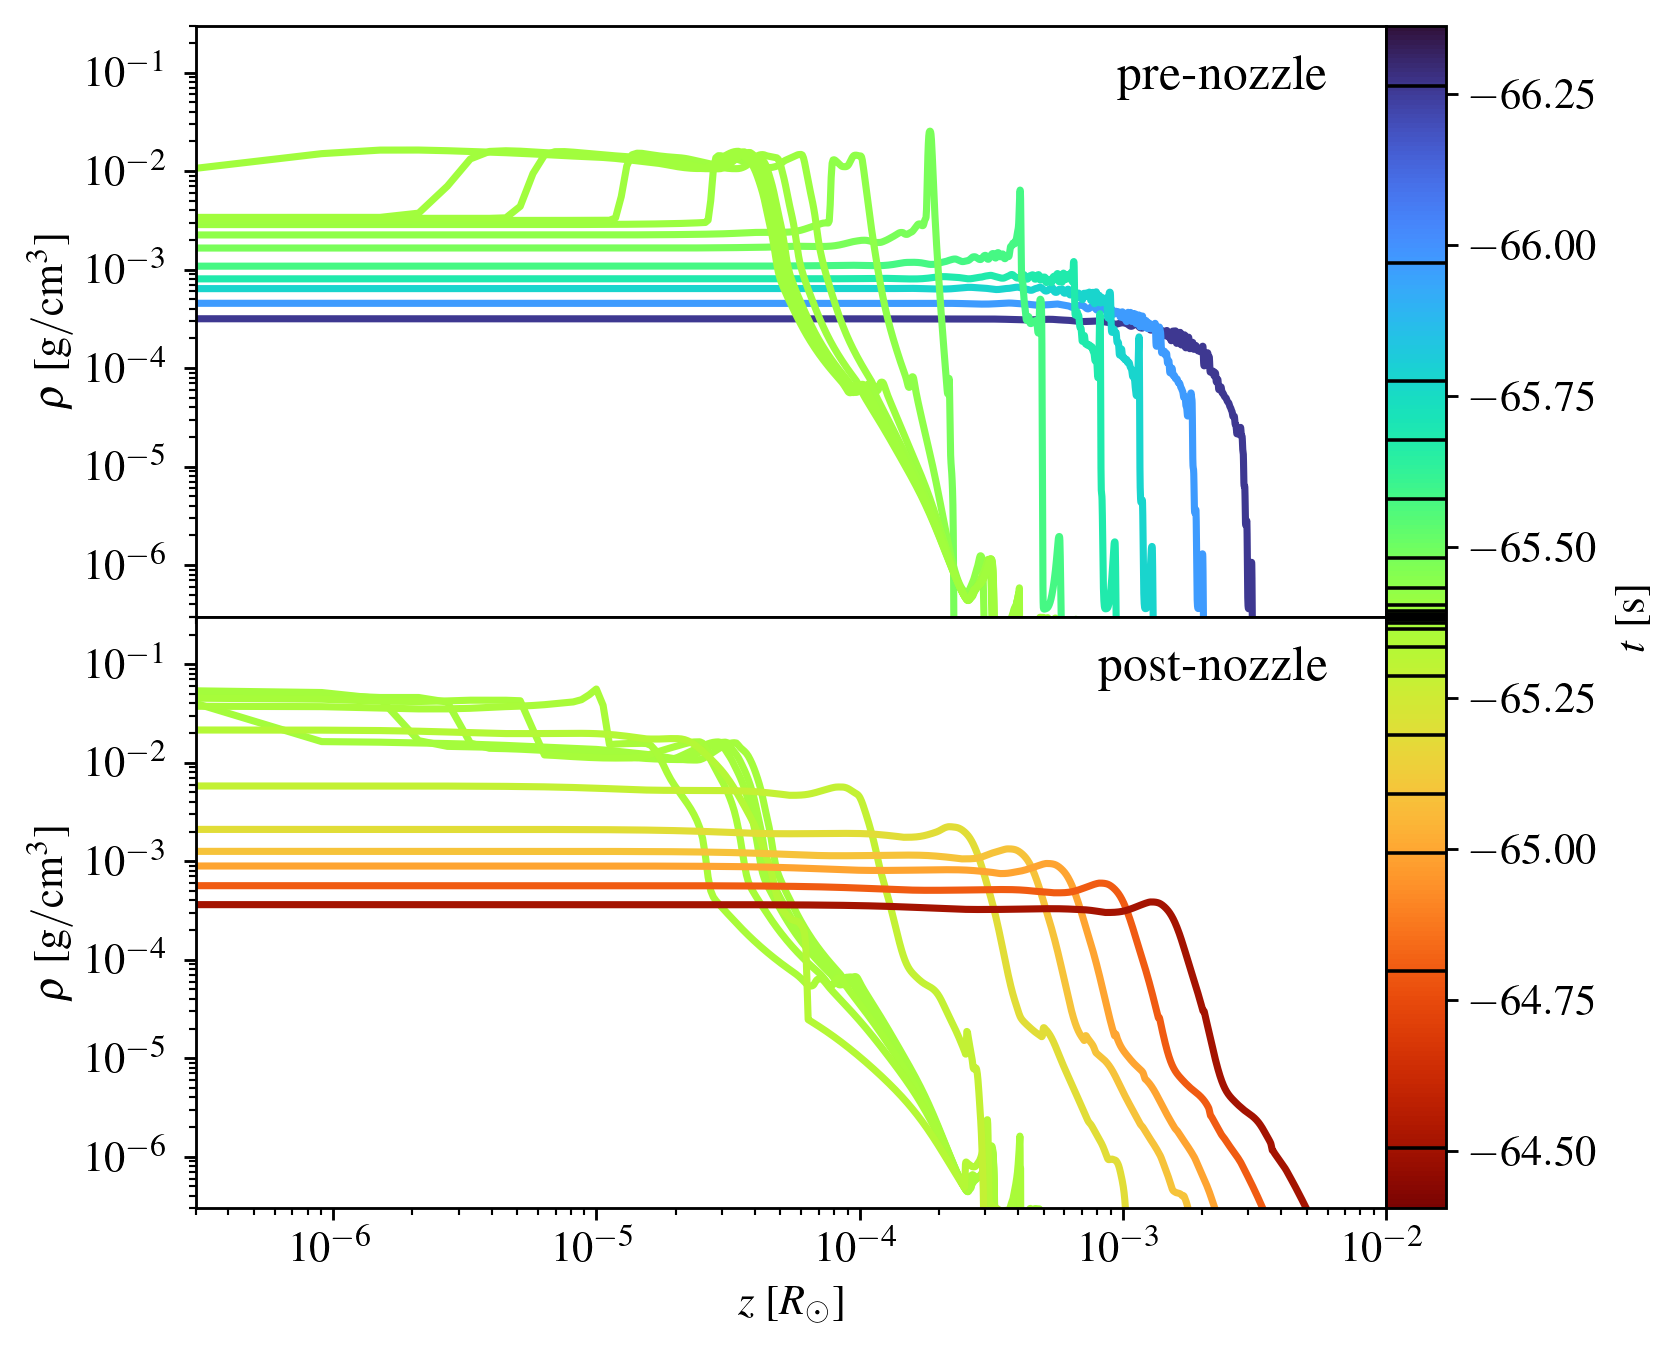
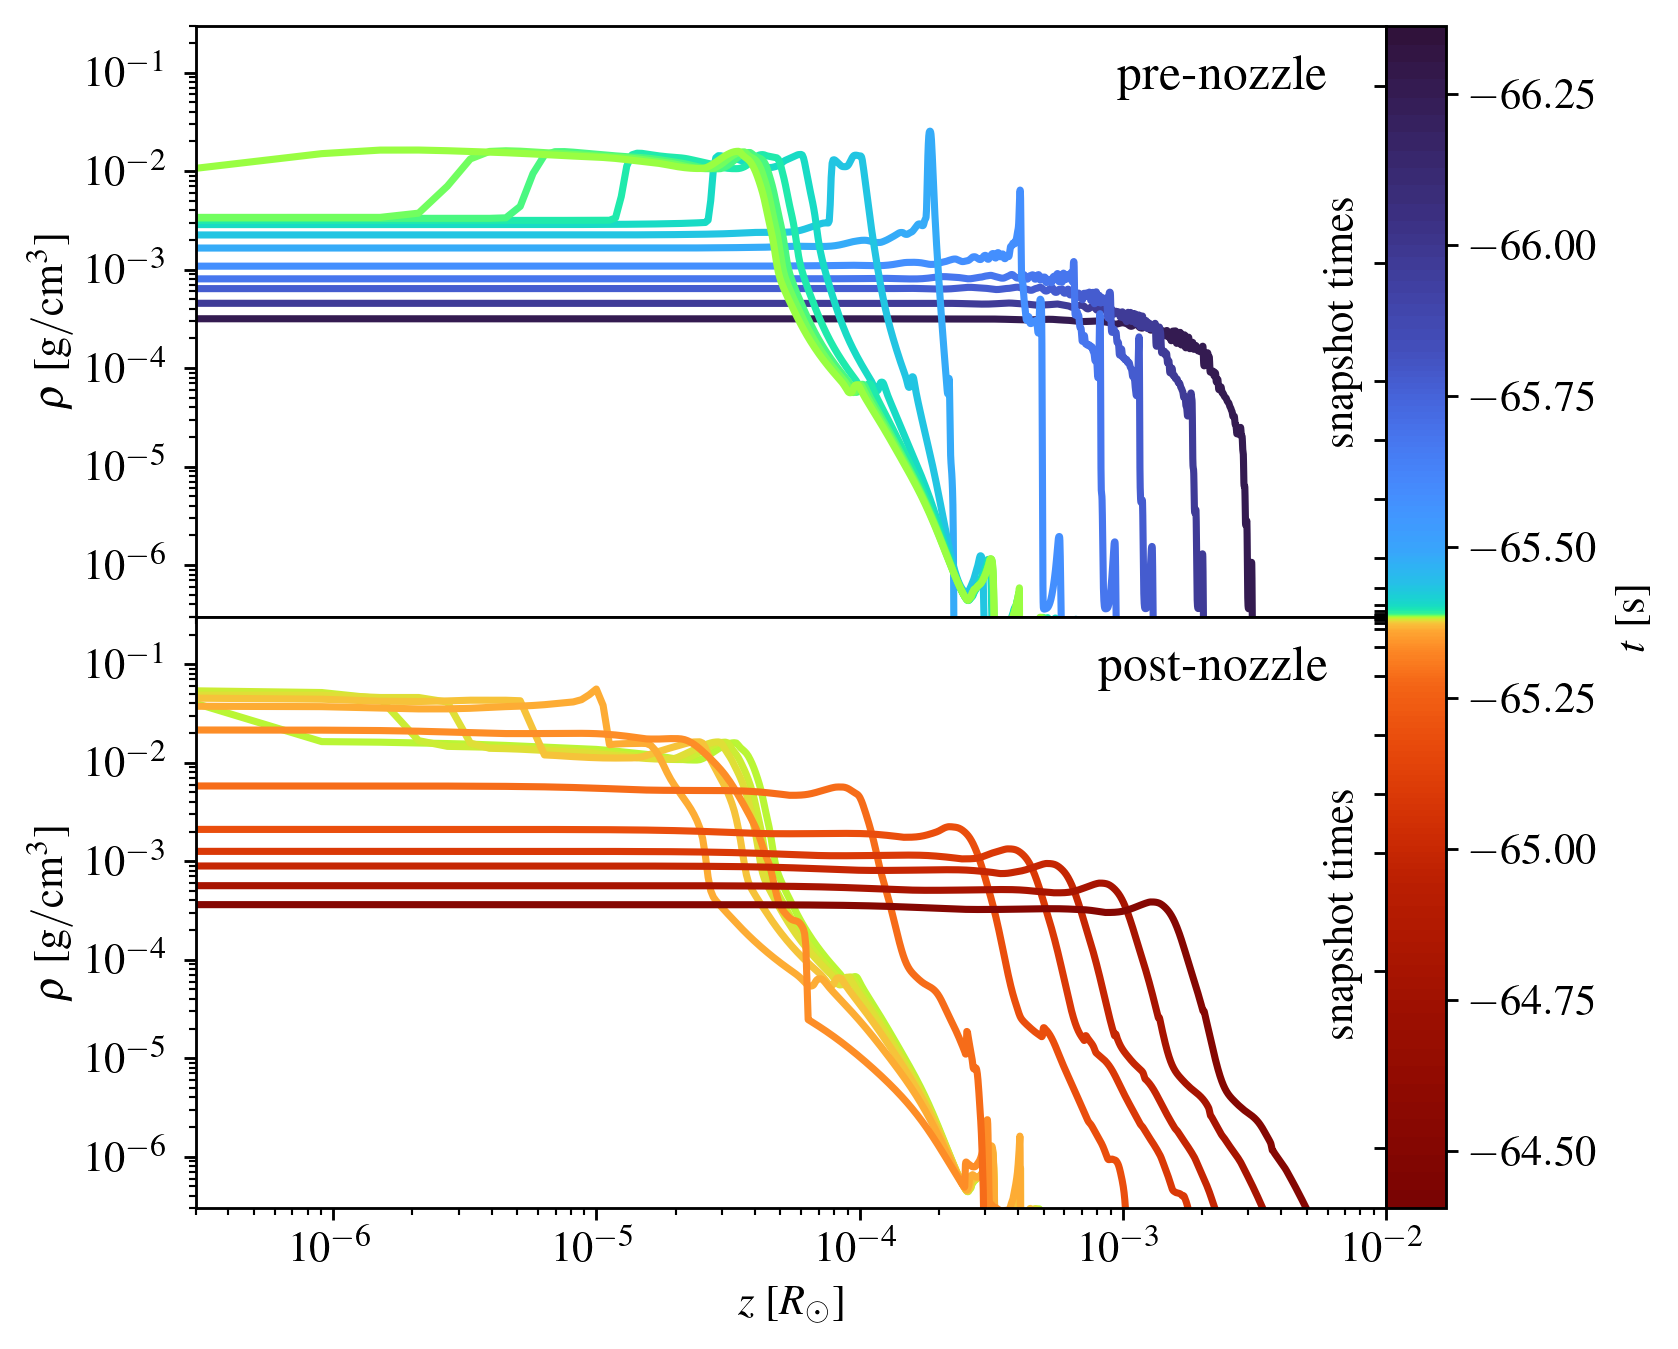
updated fig

Changed region(s): [[0.093, 0.4981, 0.7747, 0.9029], [0.093, 0.0934, 0.7747, 0.467], [0.7747, 0.0311, 0.8677, 0.8718]]

diff --git a/build/publications/Andalman+2026a/index.html b/build/publications/Andalman+2026a/index.html
@@ -48,12 +48,12 @@
     The resulting flare is powered by the circularization and accretion of bound stellar debris, which returns to the BH on eccentric orbits as a thin debris stream. 
     The returning fluid elements follow inclined orbits that converge near pericenter, resulting in extreme vertical compression to scales 1e-4 Rsol and the formation of a nozzle shock. 
     Dissipation at the nozzle shock may affect circularization by altering the properties of the debris stream, but its role is the subject of ongoing debate. 
-    We develop an idealized model for the debris stream evolution combining 3D smooth particle hydrodynamics simulations, the semi-analytic affine model, and 1D finite-volume hydrodynamic simulations, which unambiguously resolve the nozzle shock. 
-    Because our model is computationally inexpensive, we can analyze the debris stream evolution for a wide range of conditions using a realistic equation of state. 
-    Near peak fallback, Hydrogen recombination and molecular Hydrogen formation broaden the stream by a factor ~5, enhancing dissipation at the nozzle.
+    We develop an idealized model for the debris stream evolution combining 3D smooth particle hydrodynamics simulations, the semi-analytic affine model, and 1D finite-volume hydrodynamic simulations. 
+    Because our model is computationally cheap, we can unambiguously resolve the nozzle shock, use a realistic equation of state, and follow the debris stream evolution at many different times. 
+    Near peak fallback, Hydrogen recombination and molecular Hydrogen formation broaden the stream by a factor ~5, enhancing dissipation at the nozzle. 
     However, the dissipation is still insufficient to directly circularize the debris by in-plane pressure gradients. 
     Instead, the thicker stream substantially increases the likelihood that the stream self-intersects on the second orbit, despite relativistic nodal precession. 
-    The stream properties at self-intersection are sensitive to dissipation at the nozzle and the timing of focal points where the ballistic trajectories of the debris converge.
+    The stream properties at self-intersection are sensitive to dissipation at the nozzle and the timing of focal points where the ballistic trajectories of the debris converge. 
     Our results clarify the nozzle shock&#39;s role in circularization in TDEs, providing a foundation for more realistic circularization and emission models.
     </p>
   
@@ -92,9 +92,9 @@
     The density as a function of vertical height in the debris stream, from our 1D hydrodynamic simulations in Athena++.
     We show 12 profiles before (top panel) and after (bottom panel) the nozzle. 
     We indicate the time of each profile by its color in the color bar. 
-    The snapshots are concentrated near the nozzle, where the evolution is most rapid. 
+    The snapshots and the color bar are concentrated near the nozzle, where the evolution is most rapid. 
     Before the nozzle, a shock forms and propagates towards the center of the stream slice, where it collides with the shock from the other side of the xy-plane. 
-    The dissipation generated by these colliding shock fronts launches outward-propagating shocks that rapidly reach the surface of the stream slice and break out. 
+    The resulting dissipation launches outward-propagating shocks that rapidly reach the surface of the stream slice and break out. 
     At the nozzle, the vertical height of the stream is 1e-4 Rsol.
     </div>
       

diff --git a/build/publications.html b/build/publications.html
@@ -96,7 +96,7 @@
         <div class="pub-cell authors">Z. L. Andalman, C. Fryer, C. Fontes, et al.</div>
 
         <div class="pub-cell title">
-            <a href="/publications/Andalman+2026b/">Thermalization in Kilonova Ejecta with Transport and Deatiled Microphysics</a>
+            <a href="/publications/Andalman+2026b/">Thermalization in Kilonova Ejecta with Transport and Detailed Microphysics</a>
         </div>
 
         <div class="pub-cell journal">in prep.</div>

diff --git a/build/publications/Andalman+2026b/index.html b/build/publications/Andalman+2026b/index.html
@@ -35,7 +35,7 @@
 
 <div class="pub-detail-container">
 
-  <h2>Thermalization in Kilonova Ejecta with Transport and Deatiled Microphysics</h2>
+  <h2>Thermalization in Kilonova Ejecta with Transport and Detailed Microphysics</h2>
   <p style="text-align: center;"><strong>Z. L. Andalman, C. Fryer, C. Fontes, M. Mumpower, & R. Wollaeger</strong></p>
   <p style="text-align: center;"><em>in prep.</em> • 2026</p>
 

diff --git a/data.py b/data.py
@@ -142,9 +142,9 @@ publications = [
     The density as a function of vertical height in the debris stream, from our 1D hydrodynamic simulations in Athena++.
     We show 12 profiles before (top panel) and after (bottom panel) the nozzle. 
     We indicate the time of each profile by its color in the color bar. 
-    The snapshots are concentrated near the nozzle, where the evolution is most rapid. 
+    The snapshots and the color bar are concentrated near the nozzle, where the evolution is most rapid. 
     Before the nozzle, a shock forms and propagates towards the center of the stream slice, where it collides with the shock from the other side of the xy-plane. 
-    The dissipation generated by these colliding shock fronts launches outward-propagating shocks that rapidly reach the surface of the stream slice and break out. 
+    The resulting dissipation launches outward-propagating shocks that rapidly reach the surface of the stream slice and break out. 
     At the nozzle, the vertical height of the stream is 1e-4 Rsol.
     """,
     "abstract": r"""
@@ -152,12 +152,12 @@ publications = [
     The resulting flare is powered by the circularization and accretion of bound stellar debris, which returns to the BH on eccentric orbits as a thin debris stream. 
     The returning fluid elements follow inclined orbits that converge near pericenter, resulting in extreme vertical compression to scales 1e-4 Rsol and the formation of a nozzle shock. 
     Dissipation at the nozzle shock may affect circularization by altering the properties of the debris stream, but its role is the subject of ongoing debate. 
-    We develop an idealized model for the debris stream evolution combining 3D smooth particle hydrodynamics simulations, the semi-analytic affine model, and 1D finite-volume hydrodynamic simulations, which unambiguously resolve the nozzle shock. 
-    Because our model is computationally inexpensive, we can analyze the debris stream evolution for a wide range of conditions using a realistic equation of state. 
-    Near peak fallback, Hydrogen recombination and molecular Hydrogen formation broaden the stream by a factor ~5, enhancing dissipation at the nozzle.
+    We develop an idealized model for the debris stream evolution combining 3D smooth particle hydrodynamics simulations, the semi-analytic affine model, and 1D finite-volume hydrodynamic simulations. 
+    Because our model is computationally cheap, we can unambiguously resolve the nozzle shock, use a realistic equation of state, and follow the debris stream evolution at many different times. 
+    Near peak fallback, Hydrogen recombination and molecular Hydrogen formation broaden the stream by a factor ~5, enhancing dissipation at the nozzle. 
     However, the dissipation is still insufficient to directly circularize the debris by in-plane pressure gradients. 
     Instead, the thicker stream substantially increases the likelihood that the stream self-intersects on the second orbit, despite relativistic nodal precession. 
-    The stream properties at self-intersection are sensitive to dissipation at the nozzle and the timing of focal points where the ballistic trajectories of the debris converge.
+    The stream properties at self-intersection are sensitive to dissipation at the nozzle and the timing of focal points where the ballistic trajectories of the debris converge. 
     Our results clarify the nozzle shock's role in circularization in TDEs, providing a foundation for more realistic circularization and emission models.
     """
   },
@@ -166,7 +166,7 @@ publications = [
     "year": 2026,
     "authors": "Z. L. Andalman, C. Fryer, C. Fontes, et al.",
     "authors_long": "Z. L. Andalman, C. Fryer, C. Fontes, M. Mumpower, & R. Wollaeger",
-    "title": "Thermalization in Kilonova Ejecta with Transport and Deatiled Microphysics",
+    "title": "Thermalization in Kilonova Ejecta with Transport and Detailed Microphysics",
     "journal": "in prep.",
     "link": None,
     "arxiv": None,
